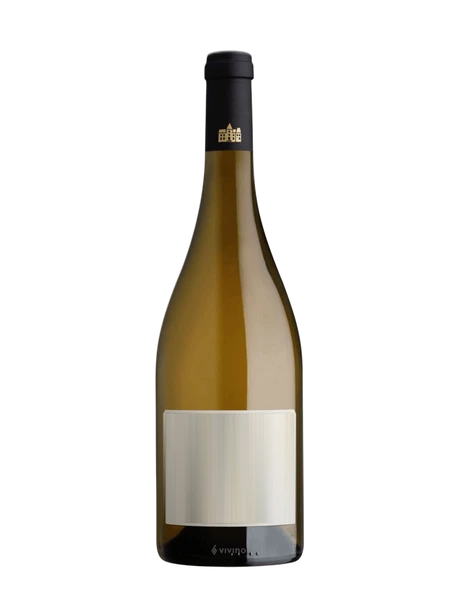
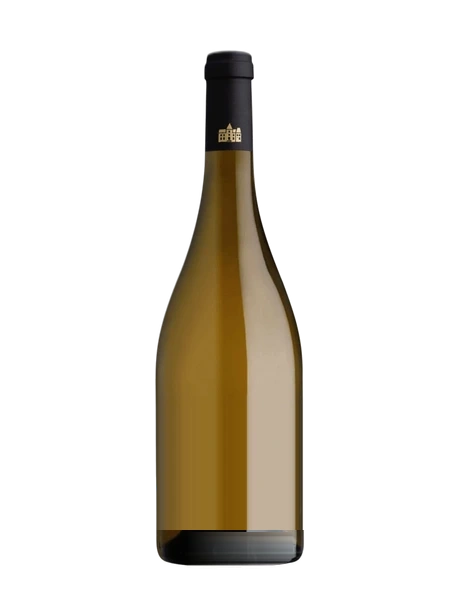
Cave : rouge restauré sur son gabarit photo ; blanc, rosé, champagne et cidres avec gabarits nettoyés
- Rouge : retour au gabarit photo (rouge), l'étiquette scannée se pose dessus.
- Blanc et rosé : filigrane marchand retiré, rectangle d'étiquette vierge effacé, culot refait.
- Champagne : marque du col et bande claire du bas retirées.
- Cidres : cassure col/corps adoucie.
- Même bouteille par type ; seule l'étiquette change.

Changed region(s): [[0.3348, 0.6498, 0.6696, 0.9283]]

diff --git a/src/lib/etiquette.ts b/src/lib/etiquette.ts
@@ -654,23 +654,9 @@ const gabarits = new Map<CouleurVerre, Promise<Gabarit | null>>();
  * fichier dans `public/gabarits/` — il passe devant.
  */
 const REPLI: Record<CouleurVerre, CouleurVerre[]> = {
-    /*
-     * Rouge, blanc et rosé : AUCUN packshot, le verre dessiné.
-     *
-     * Les anciens gabarits photographiques étaient de vraies bouteilles dont on
-     * avait gommé l'étiquette, mais pas le relief : le rouge portait encore le
-     * « Châteauneuf-du-Pape » moulé dans le verre, sous l'étiquette scannée. La
-     * bouteille n'était donc ni neutre ni la même d'une fiche à l'autre. Le
-     * verre dessiné est strictement identique pour toutes les bouteilles d'une
-     * couleur, et l'étiquette scannée y est entière, centrée et lisible.
-     */
-    rouge: [],
-    blanc: [],
-    // Le rosé est le gabarit du blanc, teinte décalée vers le saumon : même
-    // verre clair, robe différente. Un rosé posé tel quel sur le gabarit du
-    // blanc aurait l'air d'un vin blanc, ce qui est la seule chose qu'on
-    // demande à une vignette de ne pas faire.
-    rose: [],
+    rouge: ['rouge'],
+    blanc: ['blanc'],
+    rose: ['rose', 'blanc'],
     /*
      * Une liqueur n'est JAMAIS composée — voir `composerSurBouteilleType`.
      *
